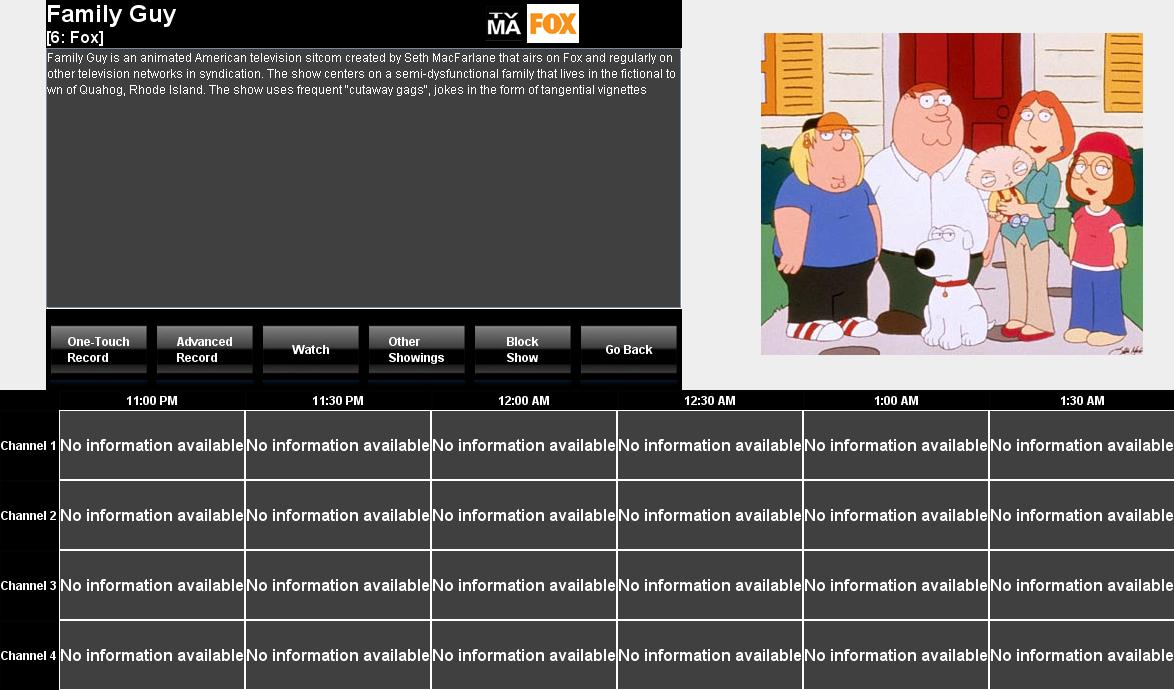
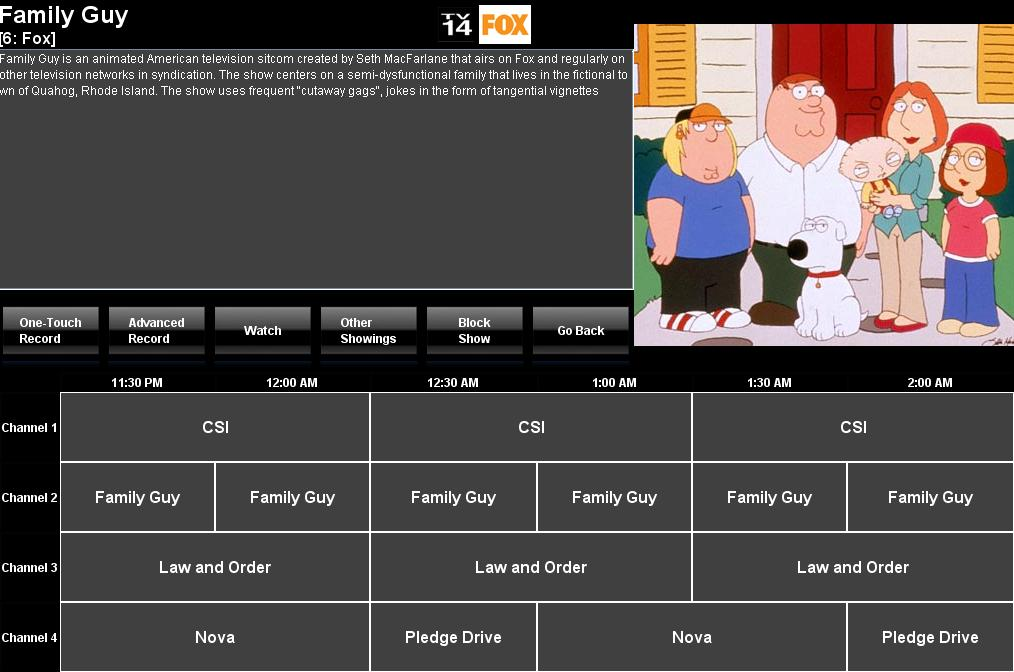
Updated TV Listing grid to show programming info Updated TV Guide screen to remove gray background behind live TV image.

diff --git a/SE444/LegendTV/src/view/ListingGrid.java b/SE444/LegendTV/src/view/ListingGrid.java
@@ -128,31 +128,120 @@ public class ListingGrid extends JPanel implements KeyListener {
 			now.add( Calendar.MINUTE, 30 );
 		}
 		
-		// Populate guide with dummy programs
+//		// Populate guide with dummy programs
+//		c.gridwidth = 1;
+//		c.gridheight = 1;
+//		c.ipadx = 0;
+//		c.ipady = 0;
+//		c.weightx = 1;
+//		c.weighty = 1;
+//		c.fill = GridBagConstraints.BOTH;
+//		programs = new JComponent[channels][timeSlots];
+//		for ( int chan = 0; chan < channels; ++chan ) {
+//			c.gridy = 2 + chan;
+//			for ( int time = 0; time < timeSlots; ++time ) {
+//				c.gridx = 2 + time;
+//				// Create the program
+//				JLabel program = new JLabel( "No information available" );
+//				program.setHorizontalAlignment( JLabel.CENTER );
+//				program.setFont( new Font( "Arial", Font.BOLD, 16 ) );
+//				program.setOpaque( true );
+//				program.setForeground( FONT_COLOR );
+//				program.setBackground( Color.DARK_GRAY );
+//				program.setBorder( BorderFactory.createLineBorder( PROGRAM_BORDER_COLOR ) );
+//				this.add( program, c );
+//				programs[chan][time] = program;
+//			}
+//		}
 		c.gridwidth = 1;
 		c.gridheight = 1;
 		c.ipadx = 0;
 		c.ipady = 0;
 		c.weightx = 1;
 		c.weighty = 1;
-		c.fill = GridBagConstraints.BOTH;
 		programs = new JComponent[channels][timeSlots];
-		for ( int chan = 0; chan < channels; ++chan ) {
-			c.gridy = 2 + chan;
-			for ( int time = 0; time < timeSlots; ++time ) {
-				c.gridx = 2 + time;
-				// Create the program
-				JLabel program = new JLabel( "No information available" );
-				program.setHorizontalAlignment( JLabel.CENTER );
-				program.setFont( new Font( "Arial", Font.BOLD, 16 ) );
-				program.setOpaque( true );
-				program.setForeground( FONT_COLOR );
-				program.setBackground( Color.DARK_GRAY );
-				program.setBorder( BorderFactory.createLineBorder( PROGRAM_BORDER_COLOR ) );
-				this.add( program, c );
-				programs[chan][time] = program;
-			}
+		// Add programs for CBS
+		int channel = 0;
+		c.gridy = 2 + channel;
+		for ( int time = 0; time < timeSlots; time += 2 ) {
+			c.gridx = 2 + time;
+			c.gridwidth = 2;
+			// Create the program
+			JLabel program = new JLabel( "CSI" );
+			program.setHorizontalAlignment( JLabel.CENTER );
+			program.setFont( new Font( "Arial", Font.BOLD, 16 ) );
+			program.setOpaque( true );
+			program.setForeground( FONT_COLOR );
+			program.setBackground( Color.DARK_GRAY );
+			program.setBorder( BorderFactory.createLineBorder( PROGRAM_BORDER_COLOR ) );
+			this.add( program, c );
+			programs[channel][time] = program;
 		}
+		// Add programs for FOX
+		channel = 1;
+		c.gridy = 2 + channel;
+		for ( int time = 0; time < timeSlots; time += 1 ) {
+			c.gridx = 2 + time;
+			c.gridwidth = 1;
+			// Create the program
+			JLabel program = new JLabel( "Family Guy" );
+			program.setHorizontalAlignment( JLabel.CENTER );
+			program.setFont( new Font( "Arial", Font.BOLD, 16 ) );
+			program.setOpaque( true );
+			program.setForeground( FONT_COLOR );
+			program.setBackground( Color.DARK_GRAY );
+			program.setBorder( BorderFactory.createLineBorder( PROGRAM_BORDER_COLOR ) );
+			this.add( program, c );
+			programs[channel][time] = program;
+		}
+		// Add programs for NBC
+		channel = 2;
+		c.gridy = 2 + channel;
+		for ( int time = 0; time < timeSlots; time += 2 ) {
+			c.gridx = 2 + time;
+			c.gridwidth = 2;
+			// Create the program
+			JLabel program = new JLabel( "Law and Order" );
+			program.setHorizontalAlignment( JLabel.CENTER );
+			program.setFont( new Font( "Arial", Font.BOLD, 16 ) );
+			program.setOpaque( true );
+			program.setForeground( FONT_COLOR );
+			program.setBackground( Color.DARK_GRAY );
+			program.setBorder( BorderFactory.createLineBorder( PROGRAM_BORDER_COLOR ) );
+			this.add( program, c );
+			programs[channel][time] = program;
+		}
+		// Add programs for PBS
+		channel = 3;
+		c.gridy = 2 + channel;
+		for ( int time = 0; time < timeSlots; time += 3 ) {
+			c.gridx = 2 + time;
+			c.gridwidth = 2;
+			// Create the program
+			JLabel program = new JLabel( "Nova" );
+			program.setHorizontalAlignment( JLabel.CENTER );
+			program.setFont( new Font( "Arial", Font.BOLD, 16 ) );
+			program.setOpaque( true );
+			program.setForeground( FONT_COLOR );
+			program.setBackground( Color.DARK_GRAY );
+			program.setBorder( BorderFactory.createLineBorder( PROGRAM_BORDER_COLOR ) );
+			this.add( program, c );
+			programs[channel][time] = program;
+			
+			c.gridx = 2 + time+2;
+			c.gridwidth = 1;
+			// Create the program
+			program = new JLabel( "Pledge Drive" );
+			program.setHorizontalAlignment( JLabel.CENTER );
+			program.setFont( new Font( "Arial", Font.BOLD, 16 ) );
+			program.setOpaque( true );
+			program.setForeground( FONT_COLOR );
+			program.setBackground( Color.DARK_GRAY );
+			program.setBorder( BorderFactory.createLineBorder( PROGRAM_BORDER_COLOR ) );
+			this.add( program, c );
+			programs[channel][time+2] = program;
+		}
+		
 		
 		// Add keylistener to base component
 		this.setFocusable( true );

diff --git a/SE444/LegendTV/src/view/GuideView.java b/SE444/LegendTV/src/view/GuideView.java
@@ -26,6 +26,8 @@ import javax.swing.JPanel;
  */
 public class GuideView extends JComponent {
 
+	public static final Color BACKGROUND = Color.BLACK;
+	
 	public static void main( String[] args ) {
 		JFrame frame = new JFrame( "GuideView Test" );
 		frame.add( new GuideView() );
@@ -36,7 +38,7 @@ public class GuideView extends JComponent {
 	
 	public GuideView() {
 		this.setLayout( new GridBagLayout() );
-		this.setBackground( Color.BLACK );
+		this.setBackground( BACKGROUND );
 		
 		GridBagConstraints c = new GridBagConstraints();
 		// Add the program view to the top left
@@ -59,6 +61,8 @@ public class GuideView extends JComponent {
 		c.weighty = 0.3;
 		c.fill = GridBagConstraints.BOTH;
 		JComponent tvView = new JLabel( new ImageIcon( "images/family-guy.jpg" ) );
+		tvView.setBackground( BACKGROUND );
+		tvView.setOpaque( true );
 		this.add( tvView, c );
 		
 		// Add the Listing Grid to the bottom half
